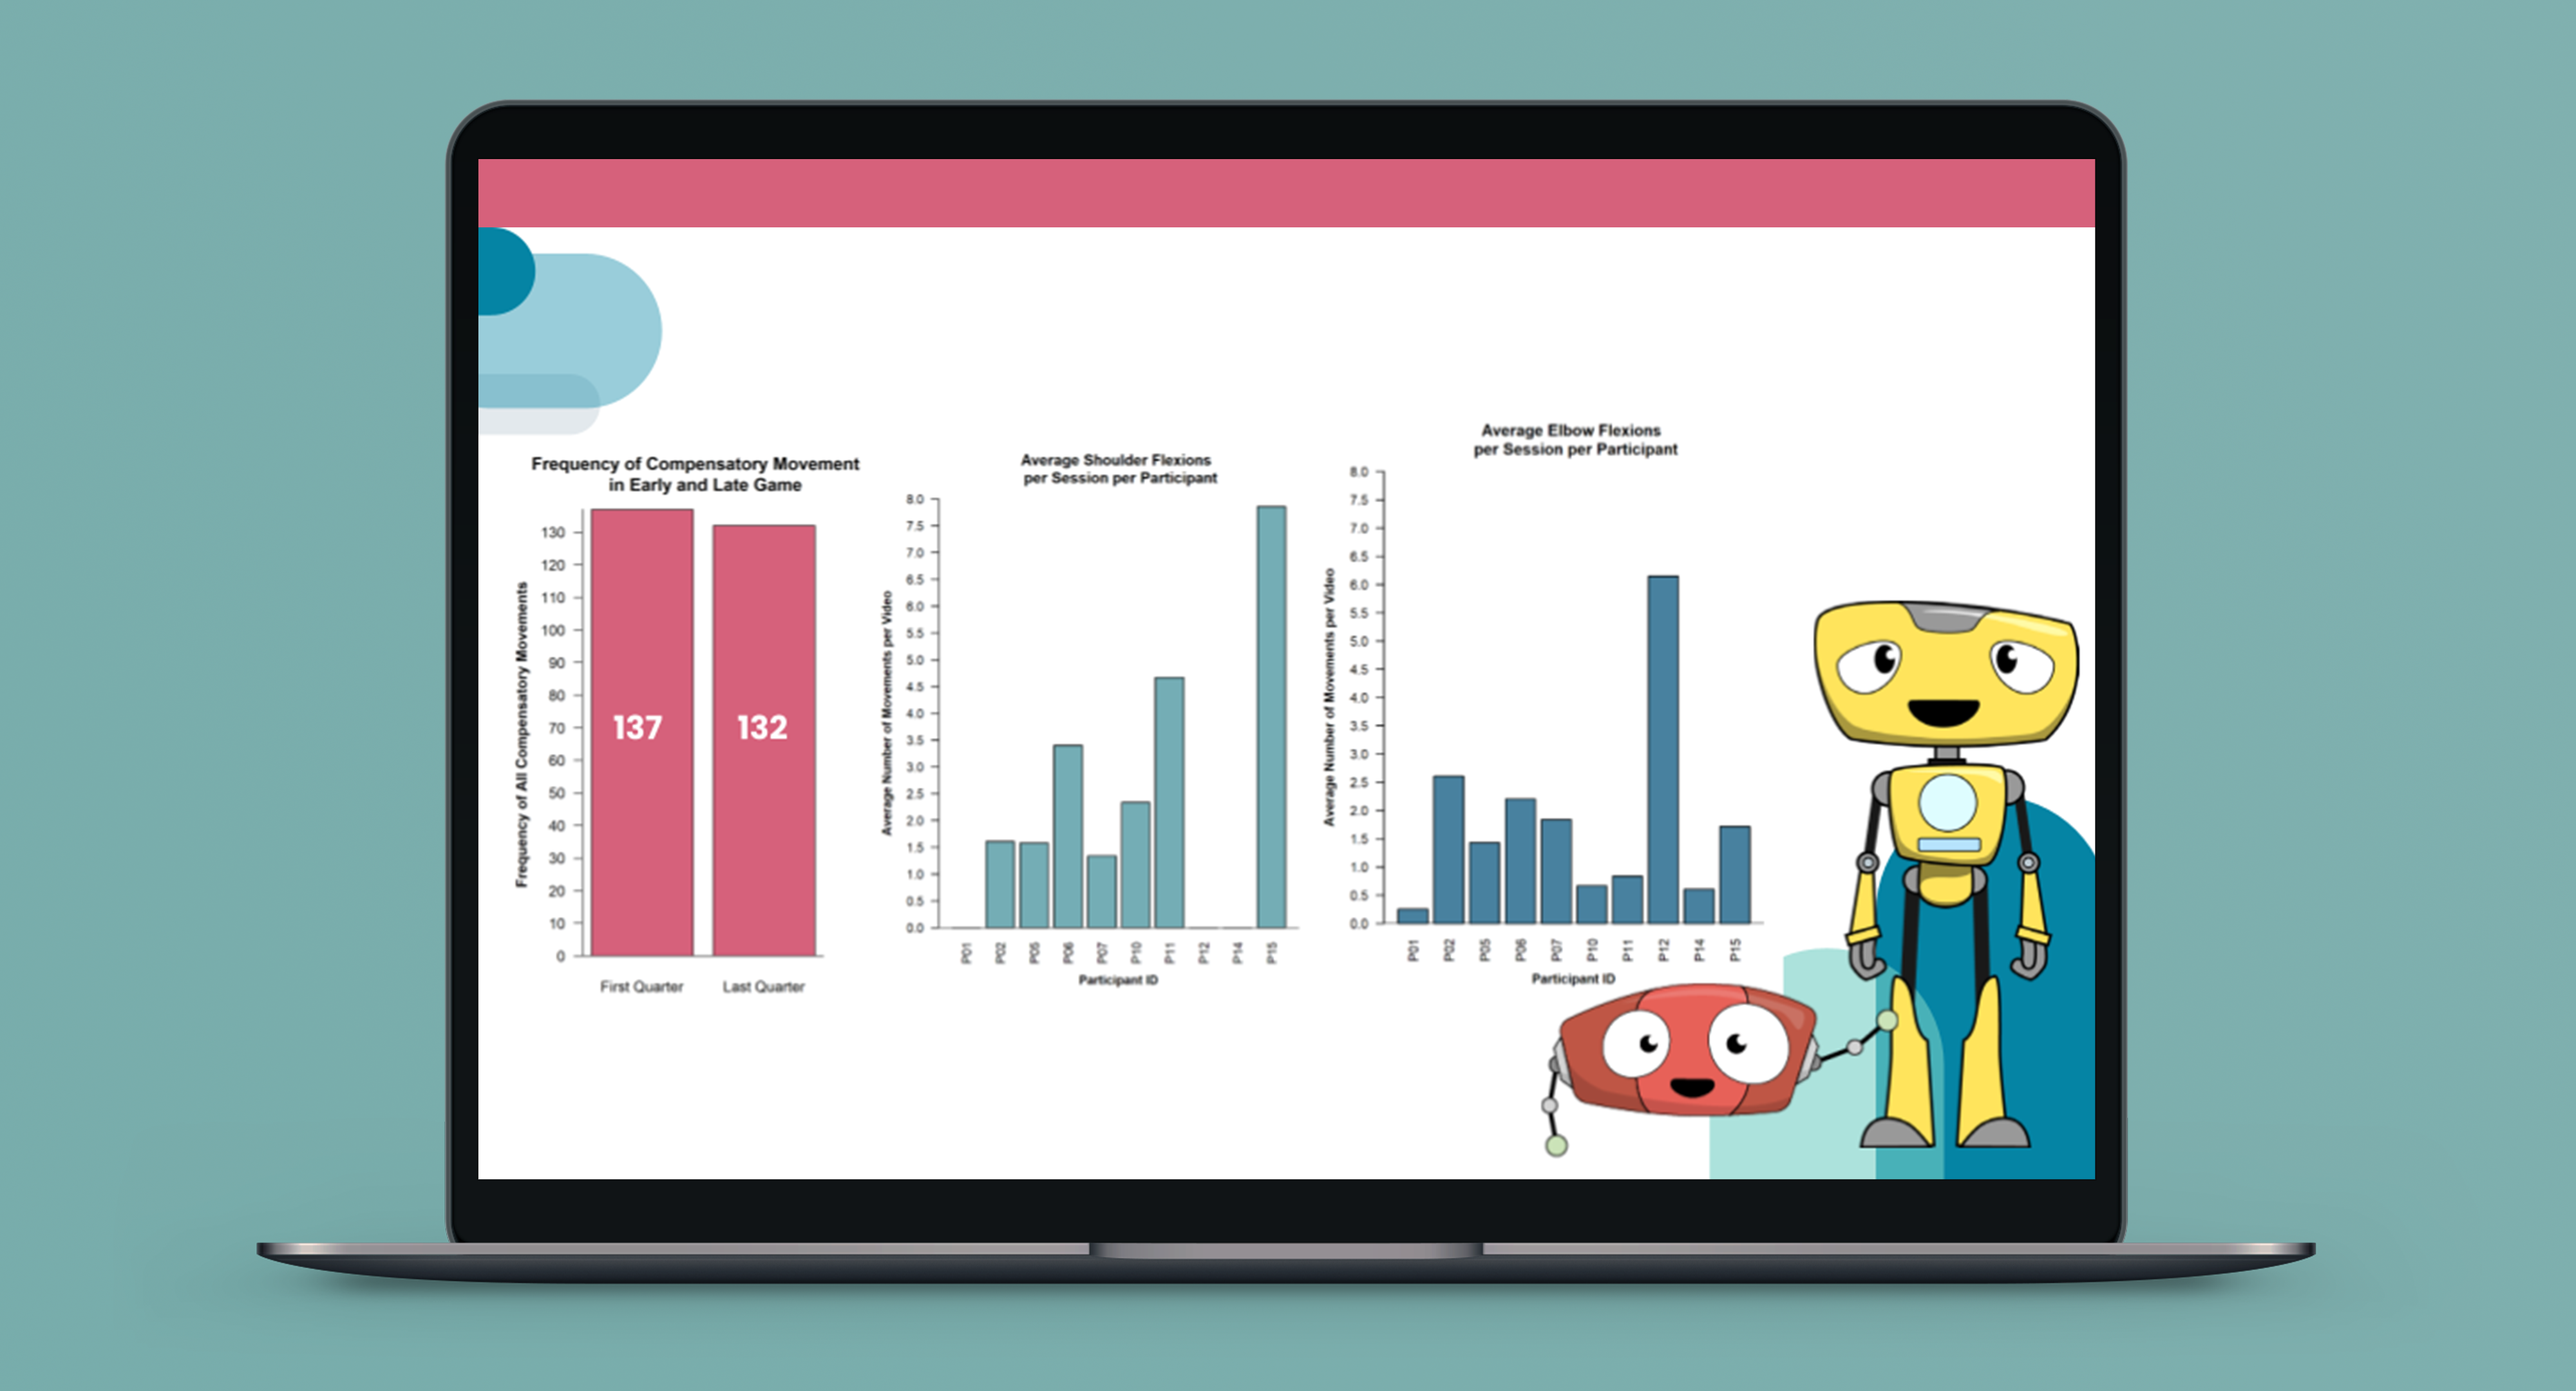
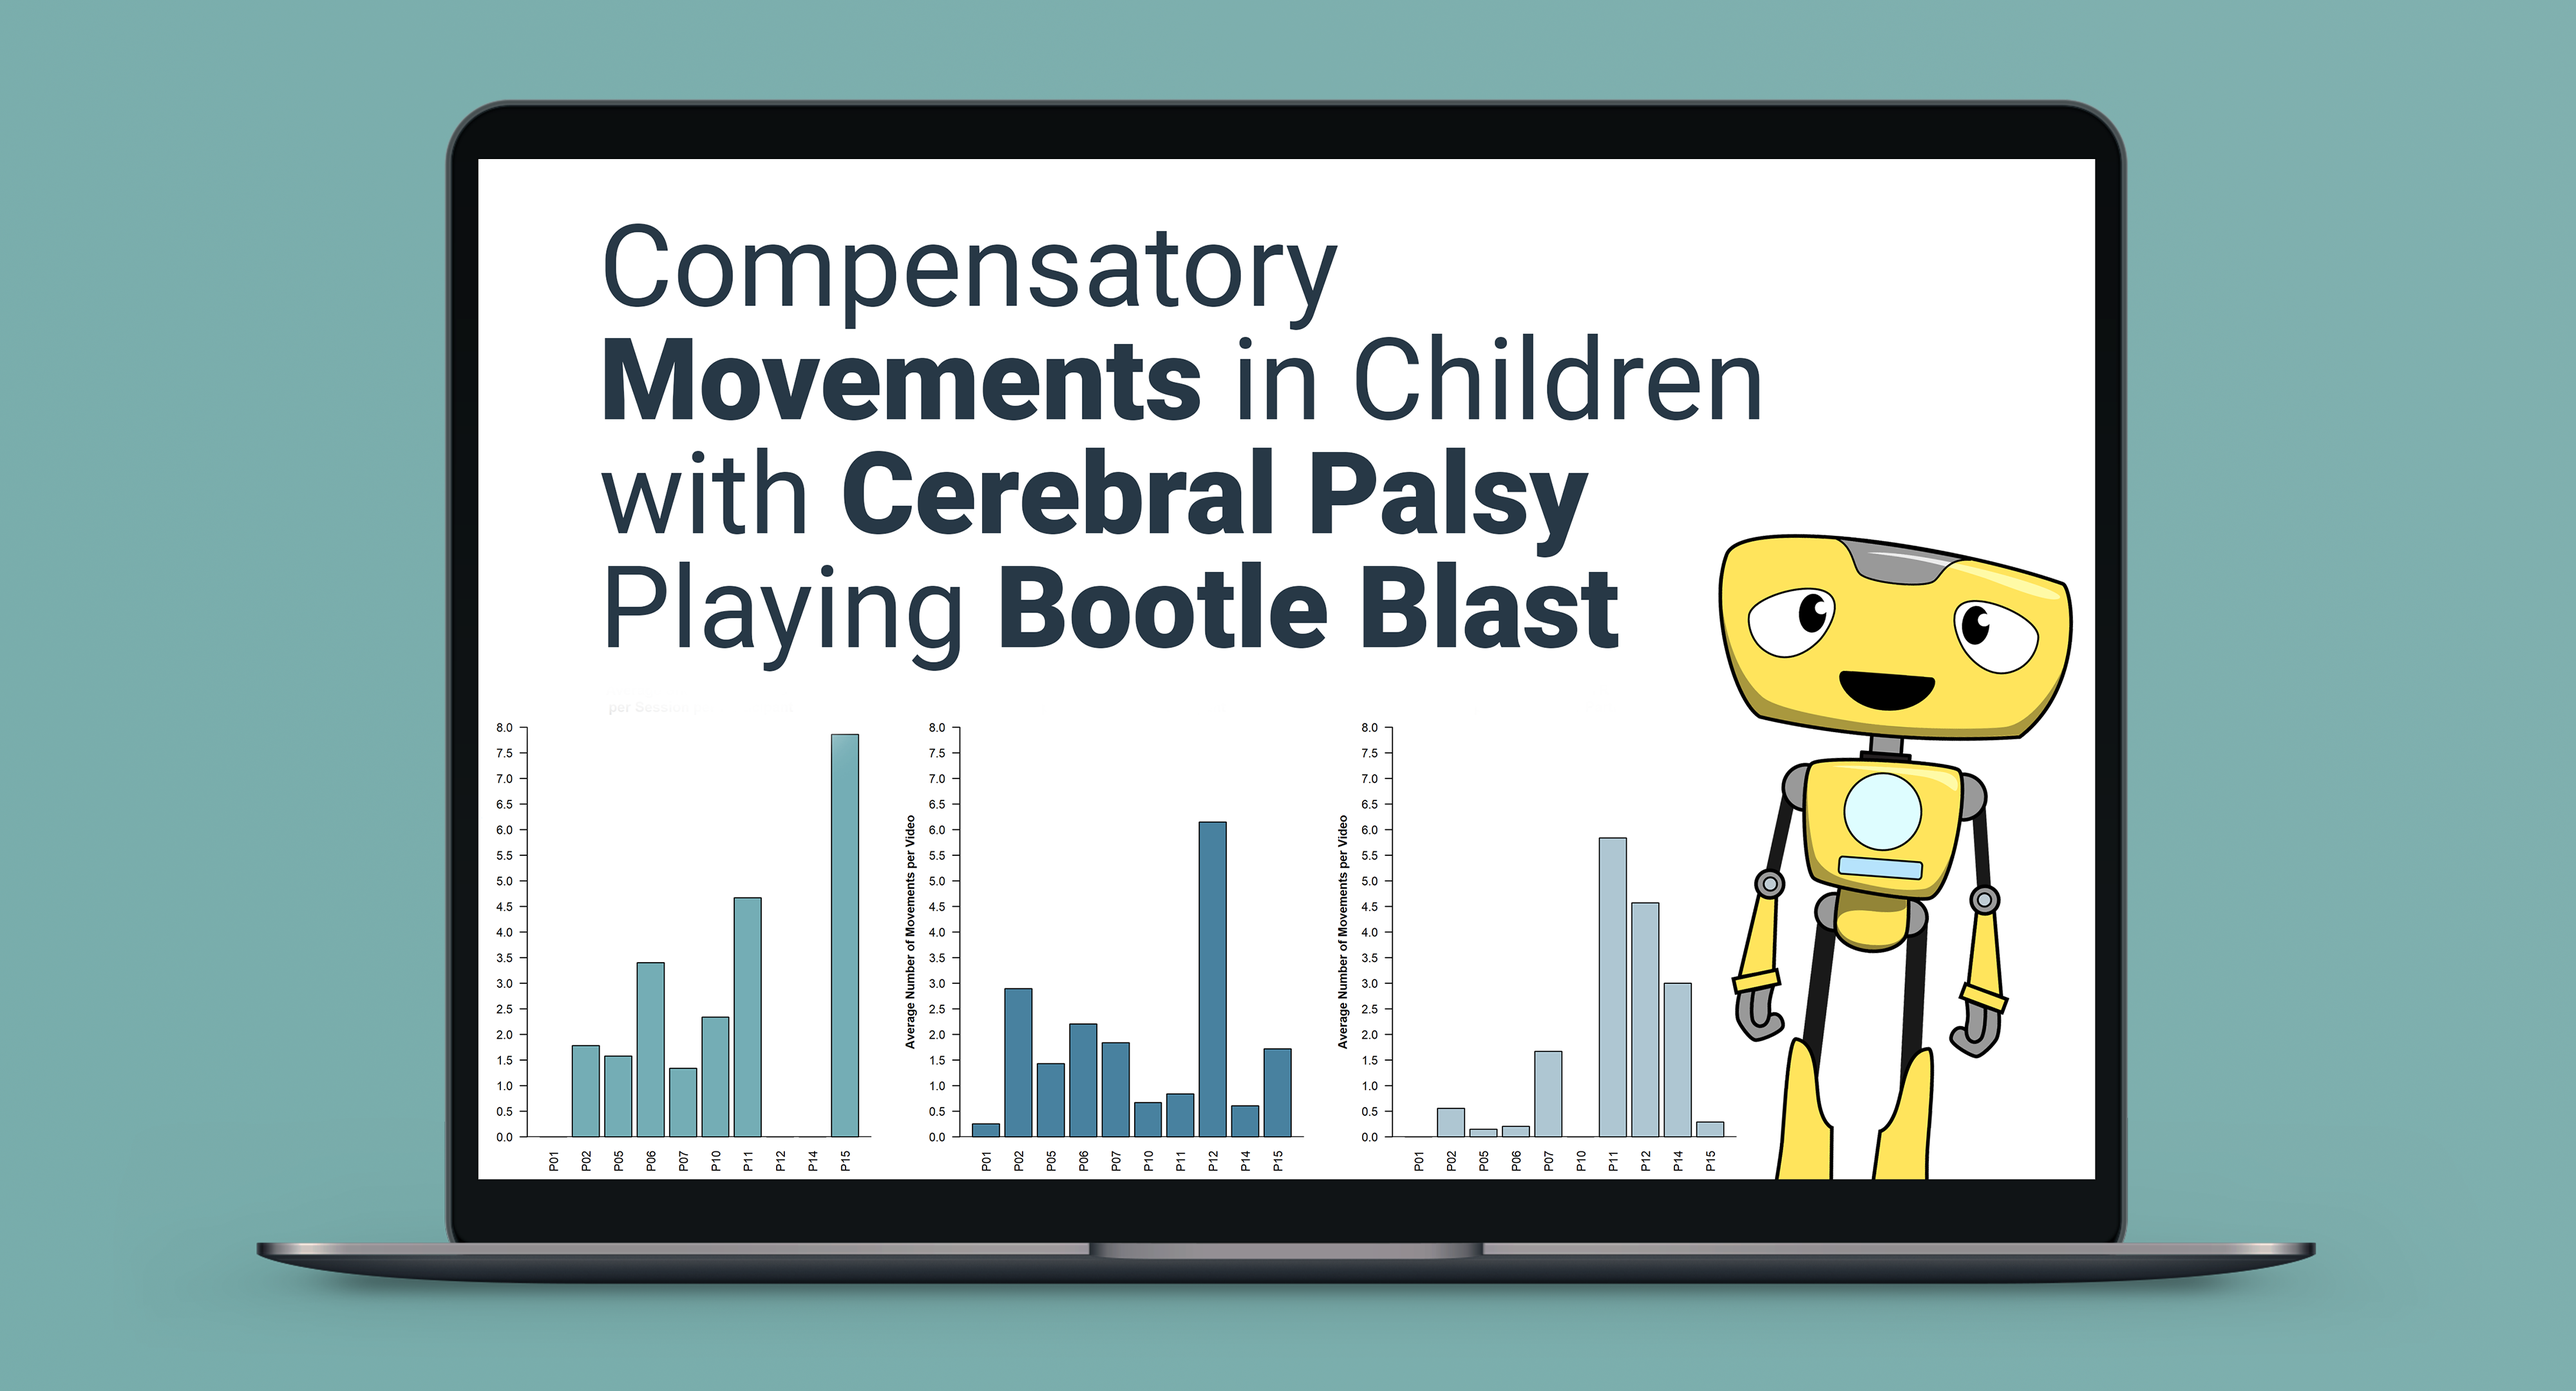
c

Changed region(s): [[0.1875, 0.0931, 0.8125, 0.8685]]

diff --git a/content/project/leap/index.md b/content/project/leap/index.md
@@ -1,0 +1,43 @@
+---
+date: "2021-03-15T00:00:00Z"
+external_link: "https://jessicaqiu.myportfolio.com/leap-canada-branding-marketing"
+image:
+  caption: 
+  focal_point: Smart
+  preview: true
+  preview_only: true
+header:
+  image: ""
+  caption: ""
+links:
+- icon: palette
+  icon_pack: fas
+  name: Portfolio
+  url: https://jessicaqiu.myportfolio.com/leap-canada-branding-marketing
+- icon: frog
+  icon_pack: fas
+  name: LEAP
+  url: https://www.leapcanada.org/
+summary: Branding and marketing materials produced for LEAP Canada.
+tags:
+- Graphic Design
+- Branding
+- Photoshop CC
+- Marketing
+title: LEAP Branding & Marketing
+url_code: ""
+url_pdf: ""
+url_slides: ""
+url_video: ""
+share: false
+---
+
+Lorem ipsum dolor sit amet, consectetur adipiscing elit. Duis posuere tellus ac convallis placerat. Proin tincidunt magna sed ex sollicitudin condimentum. Sed ac faucibus dolor, scelerisque sollicitudin nisi. Cras purus urna, suscipit quis sapien eu, pulvinar tempor diam. Quisque risus orci, mollis id ante sit amet, gravida egestas nisl. Sed ac tempus magna. Proin in dui enim. Donec condimentum, sem id dapibus fringilla, tellus enim condimentum arcu, nec volutpat est felis vel metus. Vestibulum sit amet erat at nulla eleifend gravida.
+
+Nullam vel molestie justo. Curabitur vitae efficitur leo. In hac habitasse platea dictumst. Sed pulvinar mauris dui, eget varius purus congue ac. Nulla euismod, lorem vel elementum dapibus, nunc justo porta mi, sed tempus est est vel tellus. Nam et enim eleifend, laoreet sem sit amet, elementum sem. Morbi ut leo congue, maximus velit ut, finibus arcu. In et libero cursus, rutrum risus non, molestie leo. Nullam congue quam et volutpat malesuada. Sed risus tortor, pulvinar et dictum nec, sodales non mi. Phasellus lacinia commodo laoreet. Nam mollis, erat in feugiat consectetur, purus eros egestas tellus, in auctor urna odio at nibh. Mauris imperdiet nisi ac magna convallis, at rhoncus ligula cursus.
+
+Cras aliquam rhoncus ipsum, in hendrerit nunc mattis vitae. Duis vitae efficitur metus, ac tempus leo. Cras nec fringilla lacus. Quisque sit amet risus at ipsum pharetra commodo. Sed aliquam mauris at consequat eleifend. Praesent porta, augue sed viverra bibendum, neque ante euismod ante, in vehicula justo lorem ac eros. Suspendisse augue libero, venenatis eget tincidunt ut, malesuada at lorem. Donec vitae bibendum arcu. Aenean maximus nulla non pretium iaculis. Quisque imperdiet, nulla in pulvinar aliquet, velit quam ultrices quam, sit amet fringilla leo sem vel nunc. Mauris in lacinia lacus.
+
+Suspendisse a tincidunt lacus. Curabitur at urna sagittis, dictum ante sit amet, euismod magna. Sed rutrum massa id tortor commodo, vitae elementum turpis tempus. Lorem ipsum dolor sit amet, consectetur adipiscing elit. Aenean purus turpis, venenatis a ullamcorper nec, tincidunt et massa. Integer posuere quam rutrum arcu vehicula imperdiet. Mauris ullamcorper quam vitae purus congue, quis euismod magna eleifend. Vestibulum semper vel augue eget tincidunt. Fusce eget justo sodales, dapibus odio eu, ultrices lorem. Duis condimentum lorem id eros commodo, in facilisis mauris scelerisque. Morbi sed auctor leo. Nullam volutpat a lacus quis pharetra. Nulla congue rutrum magna a ornare.
+
+Aliquam in turpis accumsan, malesuada nibh ut, hendrerit justo. Cum sociis natoque penatibus et magnis dis parturient montes, nascetur ridiculus mus. Quisque sed erat nec justo posuere suscipit. Donec ut efficitur arcu, in malesuada neque. Nunc dignissim nisl massa, id vulputate nunc pretium nec. Quisque eget urna in risus suscipit ultricies. Pellentesque odio odio, tincidunt in eleifend sed, posuere a diam. Nam gravida nisl convallis semper elementum. Morbi vitae felis faucibus, vulputate orci placerat, aliquet nisi. Aliquam erat volutpat. Maecenas sagittis pulvinar purus, sed porta quam laoreet at.

diff --git a/content/project/thesis/index.md b/content/project/thesis/index.md
@@ -1,0 +1,55 @@
+---
+date: "2025-08-08T00:00:00Z"
+external_link: "https://drive.google.com/file/d/15Ech6_P4ykfwdmtKJu2i9R9hiTAzmtIq/view?usp=sharing"
+image:
+  caption: 
+  focal_point: Smart
+  preview: true
+  preview_only: false
+header:
+  image: ""
+  caption: ""
+links:
+- icon: file-powerpoint
+  icon_pack: fas
+  name: Presentation
+  url: https://drive.google.com/file/d/15Ech6_P4ykfwdmtKJu2i9R9hiTAzmtIq/view?usp=sharing
+summary: Self-initiated graduate research project investigating compensatory movements made by children with cerebral palsy make while playing the Bootle Blast motor-training video game.
+tags:
+- Research
+title: The Effects of Reduced Visibility on Fish Activity
+url_code: ""
+url_pdf: ""
+url_slides: ""
+url_video: ""
+share: false
+---
+
+{{< toc >}}
+
+## ABOUT:
+
+
+
+---
+
+Coming Soon...
+
+## I. 📚 Researching Graphical Abstracts
+
+Lorem ipsum dolor sit amet, consectetur adipiscing elit, sed do eiusmod tempor incididunt ut labore et dolore magna aliqua. Ut enim ad minim veniam, quis nostrud exercitation ullamco laboris nisi ut aliquip ex ea commodo consequat. Duis aute irure dolor in reprehenderit in voluptate velit esse cillum dolore eu fugiat nulla pariatur. Excepteur sint occaecat cupidatat non proident, sunt in culpa qui officia deserunt mollit anim id est laborum.
+
+## II. 💭 Brainstorming
+
+Lorem ipsum dolor sit amet, consectetur adipiscing elit, sed do eiusmod tempor incididunt ut labore et dolore magna aliqua. Ut enim ad minim veniam, quis nostrud exercitation ullamco laboris nisi ut aliquip ex ea commodo consequat. Duis aute irure dolor in reprehenderit in voluptate velit esse cillum dolore eu fugiat nulla pariatur. Excepteur sint occaecat cupidatat non proident, sunt in culpa qui officia deserunt mollit anim id est laborum.
+
+## III. 📐 Drafts, Drafts, Drafts
+
+Lorem ipsum dolor sit amet, consectetur adipiscing elit, sed do eiusmod tempor incididunt ut labore et dolore magna aliqua. Ut enim ad minim veniam, quis nostrud exercitation ullamco laboris nisi ut aliquip ex ea commodo consequat. Duis aute irure dolor in reprehenderit in voluptate velit esse cillum dolore eu fugiat nulla pariatur. Excepteur sint occaecat cupidatat non proident, sunt in culpa qui officia deserunt mollit anim id est laborum.
+
+## IV. 🥁 Drumroll...Finished Abstract!
+
+Lorem ipsum dolor sit amet, consectetur adipiscing elit, sed do eiusmod tempor incididunt ut labore et dolore magna aliqua. Ut enim ad minim veniam, quis nostrud exercitation ullamco laboris nisi ut aliquip ex ea commodo consequat. Duis aute irure dolor in reprehenderit in voluptate velit esse cillum dolore eu fugiat nulla pariatur. Excepteur sint occaecat cupidatat non proident, sunt in culpa qui officia deserunt mollit anim id est laborum.
+
+
+

diff --git a/content/project/cppf/index.md b/content/project/cppf/index.md
@@ -17,7 +17,7 @@ links:
 summary: My presentation explores the Canadian OT Practice Process (COTIPP) through an international lens, fostering cross-cultural learning and exchange between Canadian and Swedish OT practices.
 tags:
 - Occupational Therapy
-title: Bridging Perspectives; Introducing the Canadian OT Practice Process to Swedish Therapists
+title: Canadian OT Practice Process for Swedish Therapists
 url_code: ""
 url_pdf: ""
 url_slides: ""

diff --git a/content/project/cichlid/index.md b/content/project/cichlid/index.md
@@ -20,7 +20,6 @@ links:
   url: https://drive.google.com/file/d/1SbML14PAu2bCB6RVRYuQP80aj7wvJu7F/view?usp=sharing
 summary: Designed a graphical abstract for a scientific paper. Page is under construction, more coming soon! 🚧
 tags:
-- Research
 - Animal Behaviour
 - Graphic Design
 title: Social Ascension & Antioxidant Capacity in Cichlids (Graphical Abstract)
